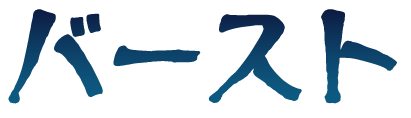
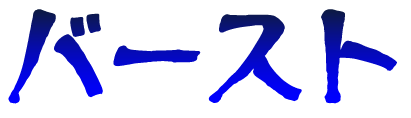
「バースト」テキストを追加

diff --git a/Properties/Resources.Designer.cs b/Properties/Resources.Designer.cs
@@ -63,9 +63,9 @@ namespace BJ.Properties {
         /// <summary>
         ///   型 System.Drawing.Bitmap のローカライズされたリソースを検索します。
         /// </summary>
-        internal static System.Drawing.Bitmap Burst {
+        internal static System.Drawing.Bitmap Burst_text {
             get {
-                object obj = ResourceManager.GetObject("Burst", resourceCulture);
+                object obj = ResourceManager.GetObject("Burst_text", resourceCulture);
                 return ((System.Drawing.Bitmap)(obj));
             }
         }
